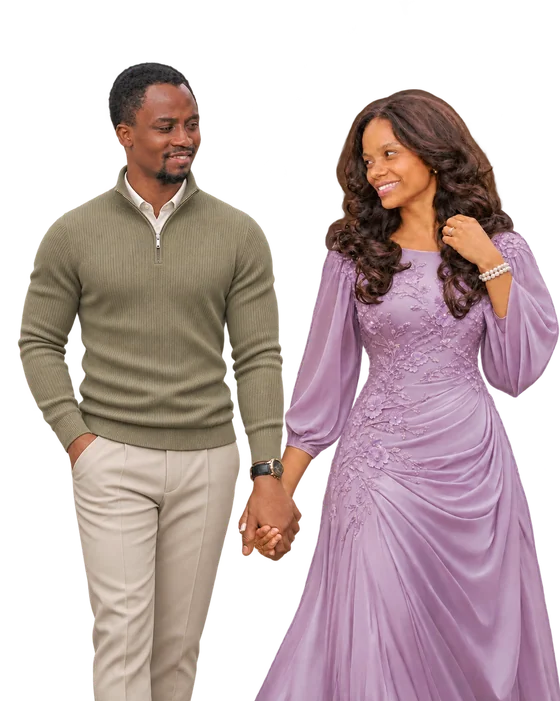
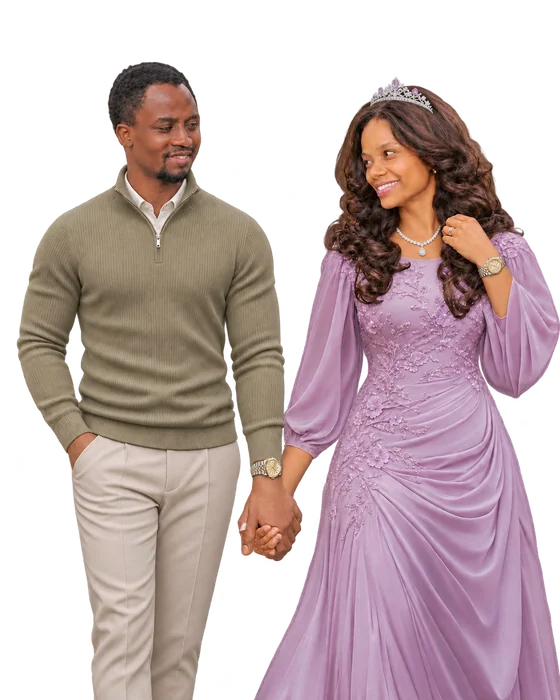
Add bridal jewellery and a booklet embrace reveal

diff --git a/public/index.html b/public/index.html
@@ -12,17 +12,17 @@
   <meta property="og:title" content="Ginikachi &amp; Godwin | Wedding Invitation">
   <meta property="og:description" content="12 December 2026, 10:00 a.m. WAT. The Golden Heart Place, Cross River State, Nigeria.">
   <meta property="og:url" content="https://ginikachi-and-godwin.vercel.app/">
-  <meta property="og:image" content="https://ginikachi-and-godwin.vercel.app/assets/wedding-share-card.jpg?v=knit">
-  <meta property="og:image:secure_url" content="https://ginikachi-and-godwin.vercel.app/assets/wedding-share-card.jpg?v=knit">
+  <meta property="og:image" content="https://ginikachi-and-godwin.vercel.app/assets/wedding-share-card.jpg?v=tiara">
+  <meta property="og:image:secure_url" content="https://ginikachi-and-godwin.vercel.app/assets/wedding-share-card.jpg?v=tiara">
   <meta property="og:image:type" content="image/jpeg">
   <meta property="og:image:width" content="1200">
   <meta property="og:image:height" content="630">
-  <meta property="og:image:alt" content="Ginikachi and Godwin in an olive quarter-zip and lilac gown, with their wedding date: 12 December 2026.">
+  <meta property="og:image:alt" content="Ginikachi and Godwin wearing an olive quarter-zip, lilac gown, and bridal jewellery, with their wedding date: 12 December 2026.">
   <meta name="twitter:card" content="summary_large_image">
   <meta name="twitter:title" content="Ginikachi &amp; Godwin | Wedding Invitation">
   <meta name="twitter:description" content="12 December 2026, 10:00 a.m. WAT. The Golden Heart Place, Cross River State, Nigeria.">
-  <meta name="twitter:image" content="https://ginikachi-and-godwin.vercel.app/assets/wedding-share-card.jpg?v=knit">
-  <meta name="twitter:image:alt" content="Ginikachi and Godwin in an olive quarter-zip and lilac gown, with their wedding date: 12 December 2026.">
+  <meta name="twitter:image" content="https://ginikachi-and-godwin.vercel.app/assets/wedding-share-card.jpg?v=tiara">
+  <meta name="twitter:image:alt" content="Ginikachi and Godwin wearing an olive quarter-zip, lilac gown, and bridal jewellery, with their wedding date: 12 December 2026.">
   <link rel="icon" type="image/svg+xml" href="assets/monogram.svg">
   <link rel="stylesheet" href="styles.css">
   <script src="invite.js" defer></script>
@@ -32,7 +32,10 @@
     <section class="cover" id="cover" aria-label="Closed wedding invitation" hidden>
       <div class="gate-frame">
         <div class="gate-lining" aria-hidden="true">
-          <span class="monogram">G<i>&amp;</i>G</span>
+          <picture>
+            <source media="(max-width: 760px)" srcset="assets/photos/booklet-embrace-medium.webp">
+            <img src="assets/photos/booklet-embrace.webp" width="1440" height="960" alt="" decoding="async">
+          </picture>
         </div>
         <div class="gate-panel gate-panel-left" aria-hidden="true">
           <div class="gate-face gate-front"></div>
@@ -59,7 +62,7 @@
         <figure class="hero-portrait">
           <picture>
             <source media="(max-width: 760px)" srcset="assets/photos/signature-portrait-medium.webp">
-            <img src="assets/photos/signature-portrait.webp" width="1120" height="1402" alt="Ginikachi and Godwin holding hands" fetchpriority="high">
+            <img src="assets/photos/signature-portrait.webp" width="1120" height="1400" alt="Ginikachi and Godwin holding hands, with matching watches and Ginikachi in a bridal tiara" fetchpriority="high">
           </picture>
         </figure>
         <div class="welcome-copy" data-reveal>

diff --git a/public/styles.css b/public/styles.css
@@ -54,7 +54,7 @@ section[id] { scroll-margin-top: var(--nav-height); }
 
 html:has(.cover:not([hidden])) { overflow: hidden; }
 .cover {
-  --opening-duration: 1800ms;
+  --opening-duration: 2250ms;
   position: fixed;
   z-index: 20;
   inset: 0;
@@ -74,23 +74,22 @@ html:has(.cover:not([hidden])) { overflow: hidden; }
   position: absolute;
   z-index: 0;
   inset: 0;
-  display: grid;
-  place-items: center;
-  background:
-    var(--corner) top left / min(35vw, 19rem) auto no-repeat,
-    var(--grain), radial-gradient(ellipse at center, #fff9ee 10%, #e0cbdc);
-  border: 1px solid #ead6d2;
+  overflow: hidden;
+  background: #443044;
 }
+.gate-lining picture, .gate-lining img { display: block; width: 100%; height: 100%; }
+.gate-lining img { object-fit: cover; object-position: center 39%; }
 .gate-lining::after {
   content: '';
   position: absolute;
-  inset: 1rem;
-  border: 1px solid #a684a156;
+  inset: clamp(0.7rem, 2vw, 1.5rem);
+  border: 1px solid #fdf2de8c;
+  pointer-events: none;
 }
-.gate-lining .monogram {
-  font-size: clamp(4.7rem, 17vw, 9rem);
-  color: #80557a;
-  text-shadow: 1px 1px #fff5f7;
+.cover.is-opening .gate-lining img { animation: booklet-portrait-drift 5s ease-out both; }
+@keyframes booklet-portrait-drift {
+  from { transform: scale(1); }
+  to { transform: scale(1.035); }
 }
 .gate-panel {
   position: absolute;
@@ -177,7 +176,7 @@ html:has(.cover:not([hidden])) { overflow: hidden; }
 .cover.is-opening { animation: lift-cover var(--opening-duration) ease both; }
 .is-opening .gate-panel-left { transform: rotateY(-121deg); }
 .is-opening .gate-panel-right { transform: rotateY(121deg); }
-.is-opening .bow-button { pointer-events: none; }
+.is-opening .bow-button { pointer-events: none; outline: none; }
 .is-opening .bow-label { opacity: 0; transition: opacity 160ms ease; }
 .is-opening .bow-half-left { animation: untie-left 710ms cubic-bezier(0.5, 0, 0.65, 1) both; }
 .is-opening .bow-half-right { animation: untie-right 710ms cubic-bezier(0.5, 0, 0.65, 1) both; }
@@ -190,7 +189,7 @@ html:has(.cover:not([hidden])) { overflow: hidden; }
   100% { opacity: 0; transform: translate(56%, 14%) rotate(29deg) scale(0.82); }
 }
 @keyframes lift-cover {
-  0%, 71% { opacity: 1; }
+  0%, 77% { opacity: 1; }
   100% { opacity: 0; }
 }
 
